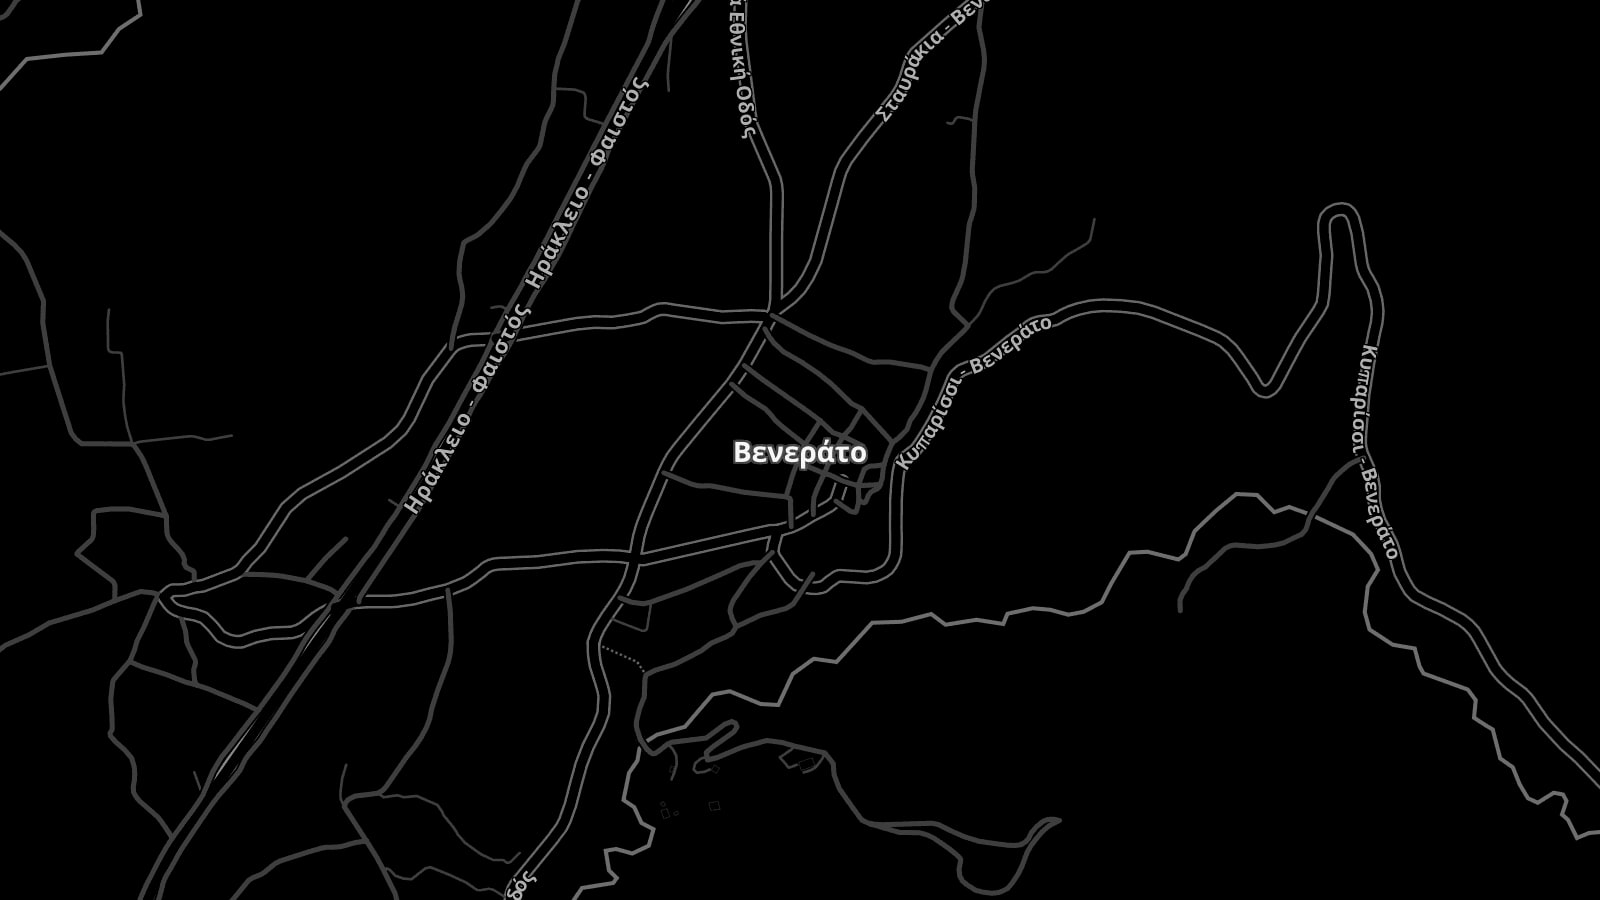
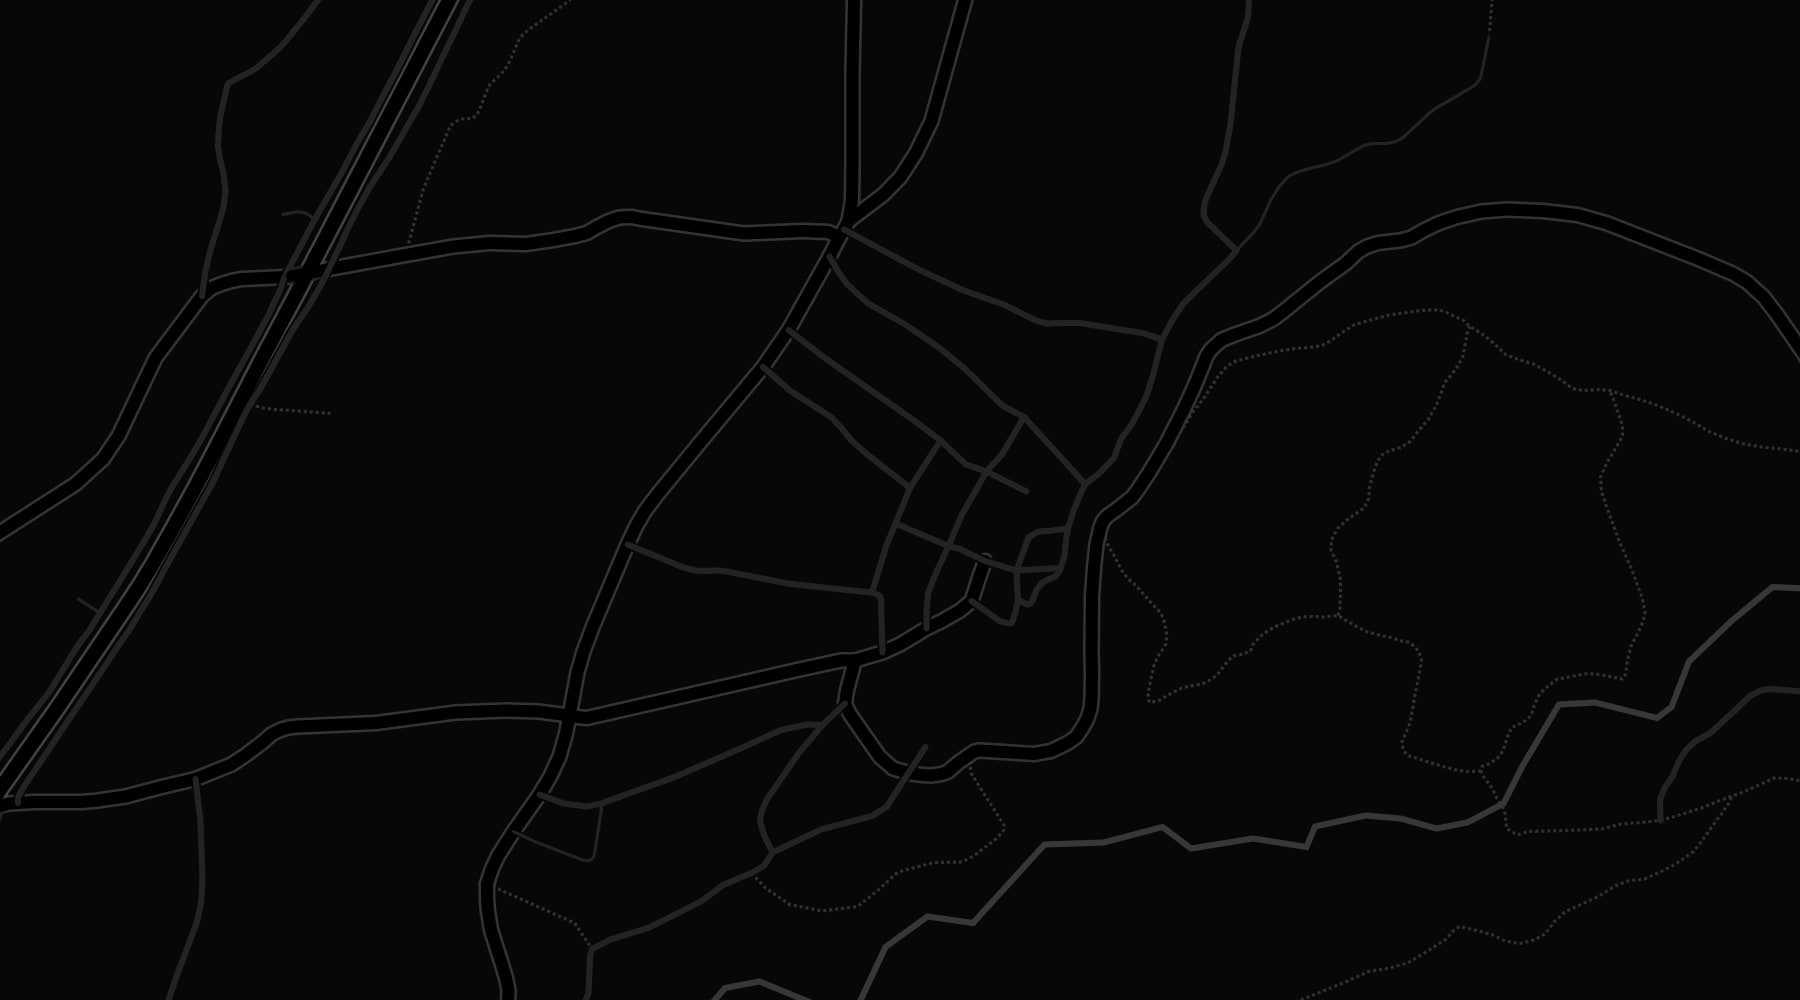
Ξαναφτιάχνει τον χάρτη και προσθέτει στοιχεία από την κάρτα
Ο προηγούμενος χάρτης ήταν γκρίζος και μπερδεμένος: τα ενσωματωμένα ονόματα
του παρόχου συγκρούονταν με την πινέζα, το vignette έτρωγε τους δρόμους, και
το zoom έδειχνε περισσότερη εξοχή παρά χωριό.

- Πλακίδια `dark_nolabels` αντί για `dark_all`, ώστε η μόνη τυπογραφία πάνω
  στον χάρτη να είναι η δική μας, γραμμένη με κιμωλία
- Zoom 16 και δύο περάσματα αντίθεσης, ώστε το οδικό δίκτυο να διαβάζεται σαν
  σκίτσο με κιμωλία σε πίνακα
- Πινέζα με σταυρόνημα και όνομα σε οδηγό γραμμή, που στο κινητό πέφτει κάτω
  από την πινέζα αντί να κόβεται στην άκρη
- Το όνομα του χωριού γράφεται πλέον από εμάς, αφού τα πλακίδια δεν το έχουν
- Static import της εικόνας, ώστε το content hash να σπάει την cache του
  next/image κάθε φορά που ξαναπαράγεται ο χάρτης

Από την επαγγελματική κάρτα στις φωτογραφίες
- Σταθερό τηλέφωνο **2815 306051**, στην επικοινωνία και στο υποσέλιδο
- Η κάρτα γράφει μόνο «Βενεράτο Ηρακλείου», χωρίς οδό. Το κείμενο κάτω από τον
  χάρτη προσαρμόστηκε ανάλογα, αντί να ζητάει διεύθυνση που δεν υπάρχει.

diff --git a/components/sections/location-map.tsx b/components/sections/location-map.tsx
@@ -4,6 +4,10 @@ import { getTranslations } from "next-intl/server";
 
 import { ChalkFrame } from "@/components/sections/board-blocks";
 import { BUSINESS } from "@/lib/general/constants";
+/* Static import, not a string path. next/image caches optimised output by URL, so
+   regenerating the map in place keeps serving the old bytes. A static import gives
+   the file a content hash, and the URL changes whenever the map does. */
+import mapImage from "@/public/images/map/venerato.jpg";
 
 /**
  * A real map, not a decoration.
@@ -31,46 +35,64 @@ export const LocationMap = async () => {
 
   return (
     <div>
-      <div className="relative aspect-16/10 w-full overflow-hidden sm:aspect-21/9">
+      <div className="relative aspect-4/3 w-full overflow-hidden sm:aspect-16/10 lg:aspect-9/5">
         <Image
-          src="/images/map/venerato.jpg"
+          src={mapImage}
           alt={t("mapAlt", { area: address.area })}
           fill
           sizes="(max-width: 1024px) 100vw, 84rem"
+          placeholder="blur"
           className="object-cover"
         />
 
-        {/* Fades the tiles into the board so the map does not sit on the page as a
-            bright rectangle pasted on slate. */}
-        <div className="pointer-events-none absolute inset-0 bg-radial from-transparent via-board/25 to-board/85" />
+        {/* Only the outer edge is faded. Anything stronger swallows the road
+            network, which is the whole point of showing a map. */}
+        <div className="pointer-events-none absolute inset-0 bg-radial from-transparent from-70% to-board/50" />
 
-        <div
-          className="pointer-events-none absolute -translate-x-1/2 -translate-y-1/2"
-          style={PIN_POSITION}
-        >
-          <span className="relative flex size-24 items-center justify-center">
+        {/* The tiles carry no place names, so the village is named in chalk here. */}
+        <span className="pointer-events-none absolute bottom-5 left-5 font-display text-sm font-bold tracking-[0.28em] text-chalk/45 uppercase sm:bottom-7 sm:left-8 sm:text-base">
+          {address.area}
+        </span>
+
+        <div className="pointer-events-none absolute" style={PIN_POSITION}>
+          {/* The marker sits on the coordinate, the name hangs off it on a leader
+              line so the two never overlap. */}
+          <span className="absolute -translate-x-1/2 -translate-y-1/2">
             <svg
-              viewBox="0 0 100 100"
+              viewBox="0 0 120 120"
               aria-hidden
               focusable="false"
               filter="url(#chalk-rough)"
-              className="absolute inset-0 size-full text-yellow"
+              className="size-20 text-yellow sm:size-28"
             >
               <circle
-                cx="50"
-                cy="50"
-                r="34"
+                cx="60"
+                cy="60"
+                r="30"
                 fill="none"
+                stroke="currentColor"
+                strokeWidth="3.2"
+                strokeLinecap="round"
+                strokeDasharray="120 26"
+              />
+              <circle cx="60" cy="60" r="8.5" fill="currentColor" />
+              <path
+                d="M60 30V13M60 107V90M30 60H13M107 60H90"
                 stroke="currentColor"
                 strokeWidth="2.4"
                 strokeLinecap="round"
-                opacity="0.75"
+                opacity="0.6"
               />
-              <circle cx="50" cy="50" r="9" fill="currentColor" />
             </svg>
           </span>
-          <span className="absolute top-full left-1/2 mt-1 -translate-x-1/2 font-chalk text-lg whitespace-nowrap text-yellow">
-            {name}
+
+          {/* Beside the marker where there is room, tucked underneath it on a
+              phone, where a right-hand label runs off the edge of the map. */}
+          <span className="absolute top-12 left-1/2 flex -translate-x-1/2 items-center gap-2 sm:top-1.5 sm:left-14 sm:translate-x-0">
+            <span className="hidden h-px w-10 bg-yellow/70 sm:block" />
+            <span className="font-chalk text-lg whitespace-nowrap text-yellow sm:text-2xl">
+              {name}
+            </span>
           </span>
         </div>
 

diff --git a/app/[locale]/(site)/epikoinonia/page.tsx b/app/[locale]/(site)/epikoinonia/page.tsx
@@ -57,7 +57,20 @@ const ContactPage = async ({ params }: BasePageProps) => {
           ))}
         </ul>
 
-        <div className="mt-14 grid gap-10 sm:grid-cols-2">
+        <div className="mt-14 grid gap-10 sm:grid-cols-2 lg:grid-cols-3">
+          <div>
+            <h2 className="flex items-center gap-2.5 font-display text-lg font-bold text-chalk">
+              <Phone className="size-4.5 text-yellow" strokeWidth={2.5} />
+              {tCommon("phone")}
+            </h2>
+            <a
+              href={BUSINESS.phone.href}
+              className="mt-3 inline-block cursor-pointer font-display text-xl font-extrabold tabular-nums text-chalk transition-colors duration-200 hover:text-yellow"
+            >
+              {BUSINESS.phone.display}
+            </a>
+          </div>
+
           <div>
             <h2 className="flex items-center gap-2.5 font-display text-lg font-bold text-chalk">
               <Clock className="size-4.5 text-yellow" strokeWidth={2.5} />

diff --git a/lib/general/constants.ts b/lib/general/constants.ts
@@ -12,8 +12,14 @@ export const BUSINESS = {
   legalName: "Περί Παιδείας, Φροντιστήριο Μέσης Εκπαίδευσης",
   slogan: "Μαζί σχεδιάζουμε το Μέλλον σας!",
 
-  /** PLACEHOLDER */
-  email: "info@example.gr",
+  /** Landline, read off the business card in `photos/`. */
+  phone: { display: "2815 306051", href: "tel:+302815306051" },
+
+  /**
+   * PLACEHOLDER. The card shows an address that reads pp.peripaideias@gmail.com
+   * but the photo is too blurry to publish it. Confirm before rendering it.
+   */
+  email: "",
 
   address: {
     /** Empty until the client confirms it. The UI hides the line rather than inventing one. */

diff --git a/components/footer.tsx b/components/footer.tsx
@@ -71,6 +71,14 @@ const Footer = async () => {
         <div className="lg:col-span-4">
           <h2 className="font-chalk text-xl text-yellow">{t("contactTitle")}</h2>
 
+          <a
+            href={BUSINESS.phone.href}
+            className="mt-5 flex items-center gap-2.5 font-display text-xl font-extrabold tabular-nums text-chalk transition-colors duration-200 hover:text-yellow"
+          >
+            <Phone className="size-4 shrink-0 text-yellow" strokeWidth={2.5} />
+            {BUSINESS.phone.display}
+          </a>
+
           <ul className="mt-5 space-y-5">
             {FOUNDERS.map((person) => (
               <li key={person.key}>

diff --git a/components/seo/school-jsonld.tsx b/components/seo/school-jsonld.tsx
@@ -18,9 +18,10 @@ export const SchoolJsonLd = ({ locale }: { locale: string }) => {
     slogan: BUSINESS.slogan,
     url: `${SITE_URL}/${locale}`,
     logo: `${SITE_URL}/images/logo/wordmark.png`,
-    telephone: STAFF.flatMap((person) =>
-      person.phone ? [person.phone.href.replace("tel:", "")] : [],
-    ),
+    telephone: [
+      BUSINESS.phone.href.replace("tel:", ""),
+      ...STAFF.flatMap((person) => (person.phone ? [person.phone.href.replace("tel:", "")] : [])),
+    ],
     address: {
       "@type": "PostalAddress",
       ...(address.street ? { streetAddress: address.street } : {}),
